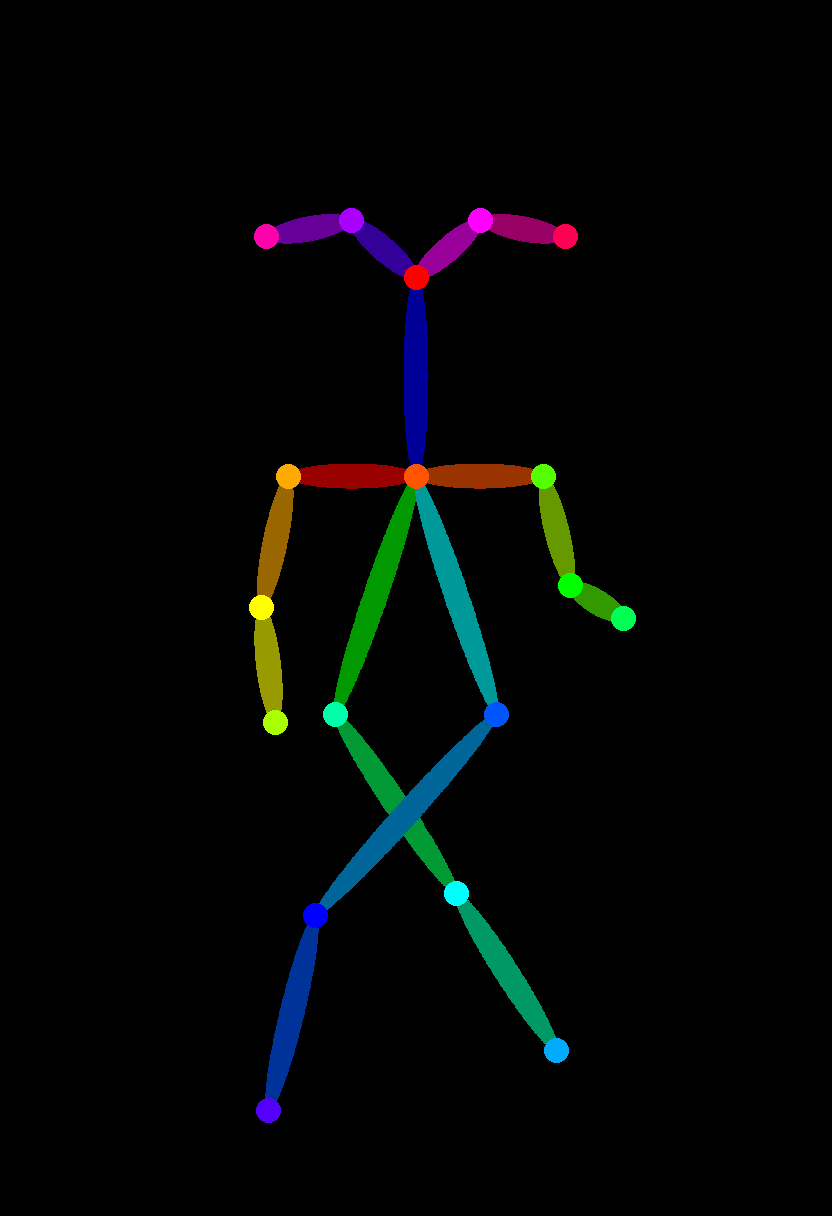
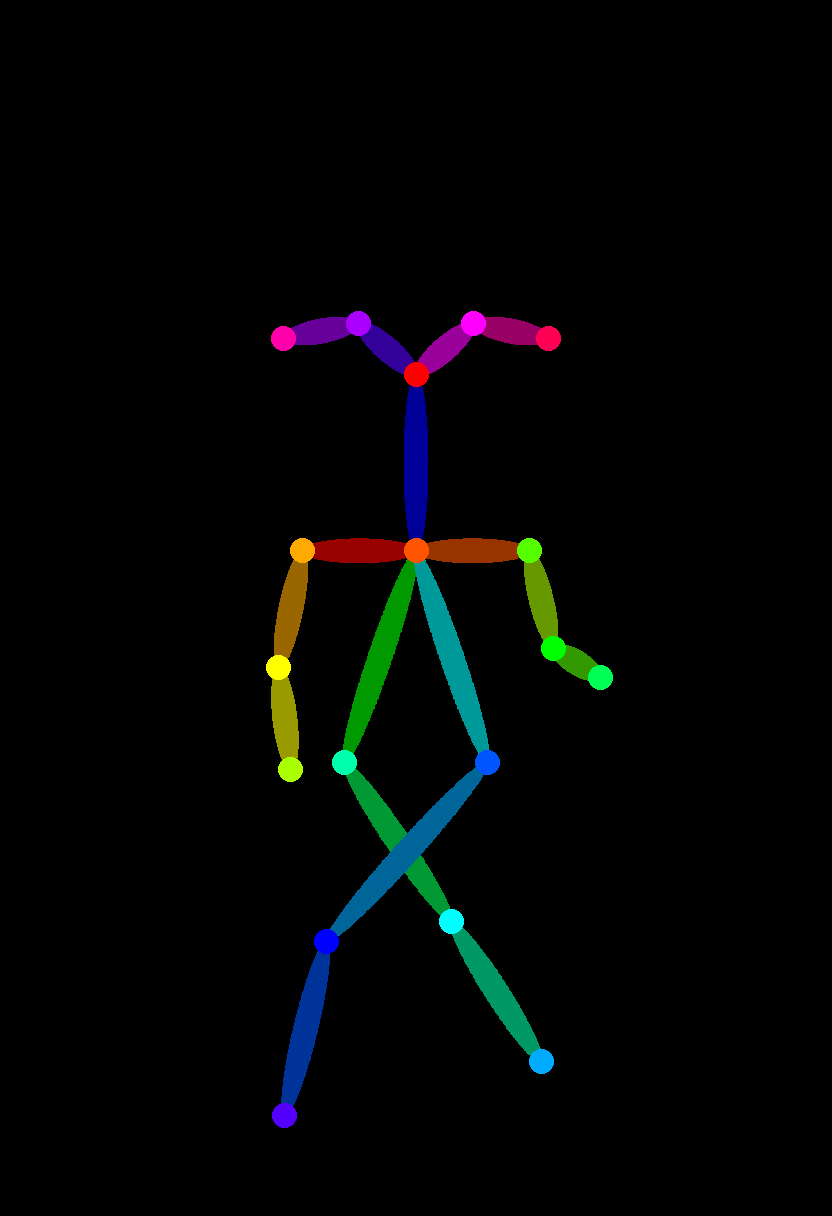
an asset whose content changes gets a new name, and the stage guard is what said so
Applying STATURE_FOR rewrote eight skeleton FILENAMES with different pixels. The
very next job refused itself at the stage step:

  !! jerry-canon-h37sit-0821.png fetched with sha 5a37c536, expected 3db75427

raw.githubusercontent.com was still serving the pre-fix bytes, and waiting out
the CDN was the tempting fix. It is the wrong one. The real defect is that
ep2-b13-canon-s1-0821 and ep2-b13-canon-r4-0821 would both pin the STRING
"jerry-canon-h37sit-0821.png" while meaning two different pictures, and the
sha in each spec would have quietly disagreed with the other forever.

So: the corrected set is h37f, the f is the frame-fill fix, and the h37 set is
restored byte-for-byte to what the first five rungs actually rendered through.
Five specs stay reproducible instead of five specs silently re-pointing.

Changed region(s): [[0.2812, 0.375, 0.7812, 0.9375], [0.3125, 0.1562, 0.6875, 0.3438]]

diff --git a/pipeline/jerry_canon_0821.py b/pipeline/jerry_canon_0821.py
@@ -329,7 +329,7 @@ def prompt_for(pose_words, emotion="deadpan"):
 
 
 def skeleton_stem(pose):
-    return "jerry-canon-h37%s-0821" % ("" if pose == "stand" else pose)
+    return "jerry-canon-h37f%s-0821" % ("" if pose == "stand" else pose)
 
 
 # ── THE FRAME-FILL CORRECTION, AND IT IS THE ROUND-THREE FINDING. ────────────
@@ -366,32 +366,45 @@ MAX_EMPTY_TOP = 0.28      # asserted for every pose in --selftest
 
 # The poses the ep2 wave needs, and the sha each skeleton must have. Built by
 # `--build-skeletons`, asserted by `--selftest`, pinned by every spec.
+#
+# THE STEM IS `h37f`, NOT `h37`, AND THE `f` IS THE FRAME-FILL FIX. The first
+# eight skeletons shipped as `jerry-canon-h37*-0821.png`; applying STATURE_FOR
+# rewrote those same eight FILENAMES with different pixels. The stage step
+# refused the very next job -- "jerry-canon-h37sit-0821.png fetched with sha
+# 5a37c536, expected 3db75427" -- because raw.githubusercontent.com was still
+# serving the pre-fix bytes from cache. Waiting out a CDN TTL was the tempting
+# fix and it is the wrong one: the real defect is that `ep2-b13-canon-s1-0821`
+# and `ep2-b13-canon-r4-0821` would both have pinned the string
+# "jerry-canon-h37sit-0821.png" while meaning two different pictures, and no
+# sha in either spec would ever have said so. AN ASSET WHOSE CONTENT CHANGES
+# GETS A NEW NAME. The h37 set stays on disk and in origin/main exactly as the
+# first five rungs were rendered through it.
 SKELETONS = {
-    "stand":  "jerry-canon-h37-0821",
-    "stride": "jerry-canon-h37stride-0821",
-    "crouch": "jerry-canon-h37crouch-0821",
-    "hunch":  "jerry-canon-h37hunch-0821",
-    "kneel":  "jerry-canon-h37kneel-0821",
-    "reach":  "jerry-canon-h37reach-0821",
-    "point":  "jerry-canon-h37point-0821",
-    "sit":    "jerry-canon-h37sit-0821",
+    "stand":  "jerry-canon-h37f-0821",
+    "stride": "jerry-canon-h37fstride-0821",
+    "crouch": "jerry-canon-h37fcrouch-0821",
+    "hunch":  "jerry-canon-h37fhunch-0821",
+    "kneel":  "jerry-canon-h37fkneel-0821",
+    "reach":  "jerry-canon-h37freach-0821",
+    "point":  "jerry-canon-h37fpoint-0821",
+    "sit":    "jerry-canon-h37fsit-0821",
 }
 SKELETON_SHA = {
-    "jerry-canon-h37-0821":
+    "jerry-canon-h37f-0821":
[1 lines of base64/hex data omitted]
-    "jerry-canon-h37stride-0821":
+    "jerry-canon-h37fstride-0821":
[1 lines of base64/hex data omitted]
-    "jerry-canon-h37crouch-0821":
+    "jerry-canon-h37fcrouch-0821":
[1 lines of base64/hex data omitted]
-    "jerry-canon-h37hunch-0821":
+    "jerry-canon-h37fhunch-0821":
[1 lines of base64/hex data omitted]
-    "jerry-canon-h37kneel-0821":
+    "jerry-canon-h37fkneel-0821":
[1 lines of base64/hex data omitted]
-    "jerry-canon-h37reach-0821":
+    "jerry-canon-h37freach-0821":
[1 lines of base64/hex data omitted]
-    "jerry-canon-h37point-0821":
+    "jerry-canon-h37fpoint-0821":
[1 lines of base64/hex data omitted]
-    "jerry-canon-h37sit-0821":
+    "jerry-canon-h37fsit-0821":
[1 lines of base64/hex data omitted]
 }
 
